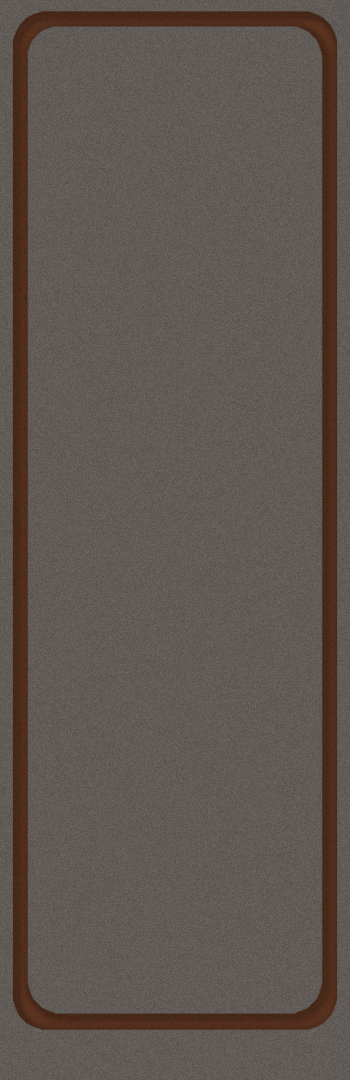
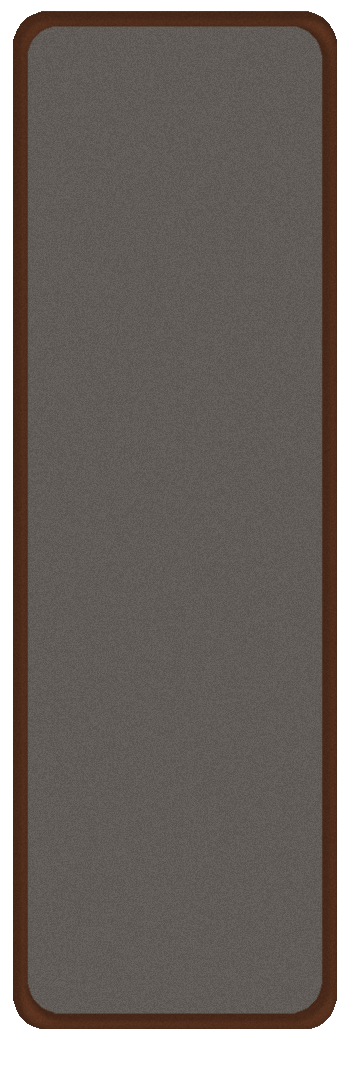
Enhanced menus (#30)
* Moved background & button

Moved the background to have something behind the left menu
Moved the button used for interaction because it would otherwise be visible

* Enhanced menus

Changed region(s): [[0.0, 0.0, 1.0, 1.0]]

diff --git a/src/main/java/view/PlayingMenu.java b/src/main/java/view/PlayingMenu.java
@@ -98,7 +98,7 @@ public class PlayingMenu extends Menu {
 
         this.middleMenu = new Pane();
         this.middleMenuBackground = new CustomImage(0, 0, WR, HR, "background empty.png");
-        this.middleMenu.getChildren().add(this.middleMenuBackground);
+        this.leftMenu.getChildren().add(this.middleMenuBackground);
 
         this.rickRollImage = new CustomImage(0,0,WR,HR,"secret.png");
         this.rickRollImage.setVisible(false);
@@ -643,10 +643,10 @@ public class PlayingMenu extends Menu {
                 key += "c";
                 key += currentCampaignLevel;
 
-                boolean parsed = false;
-                while (!parsed) {
-                    String enteredString = CompleteFieldBox.display("Rating", "How would you rate this level ?", "Rating...");
-                    if (!enteredString.equals("")) {
+                String enteredString = CompleteFieldBox.display("Rating", "How would you rate this level ?", "Rating...");
+                boolean parsed = true;
+                if (!enteredString.equals("")) {
+                    while (!parsed) {
                         try {
                             parsed = true;
                             int newRating = Integer.parseInt(enteredString);
@@ -654,6 +654,7 @@ public class PlayingMenu extends Menu {
                             int prevRating = jsonReader.getInt(key + "r");
                             int qttRating = jsonReader.getInt(key + "q");
                             int newAverage = (int) ((prevRating * qttRating + newRating) / (qttRating + 1));
+
                             JSONWriter jsonWriter = new JSONWriter("avg.json");
                             jsonWriter.set(key + "r", String.valueOf(newAverage));
                             jsonWriter.set(key + "q", String.valueOf(qttRating + 1));
@@ -661,7 +662,6 @@ public class PlayingMenu extends Menu {
                             AlertBox.display("Error", "Could not read your number");
                             parsed = false;
                         }
-
                     }
                 }
             }
@@ -691,6 +691,8 @@ public class PlayingMenu extends Menu {
     // TODO : can we run this method with only one button and generify it ?
     private void prepareMoveButtons(EventHandler keyEventHandler) {
         this.moveButton = new Button();
+        this.moveButton.setLayoutX(25*WR);
+        this.moveButton.setLayoutY(25*WR);
         this.moveButton.setOnKeyPressed(keyEventHandler);
     }
 
